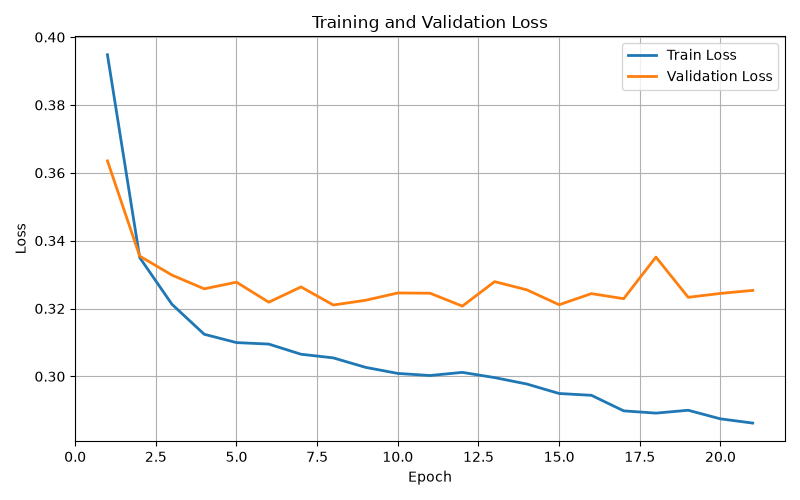
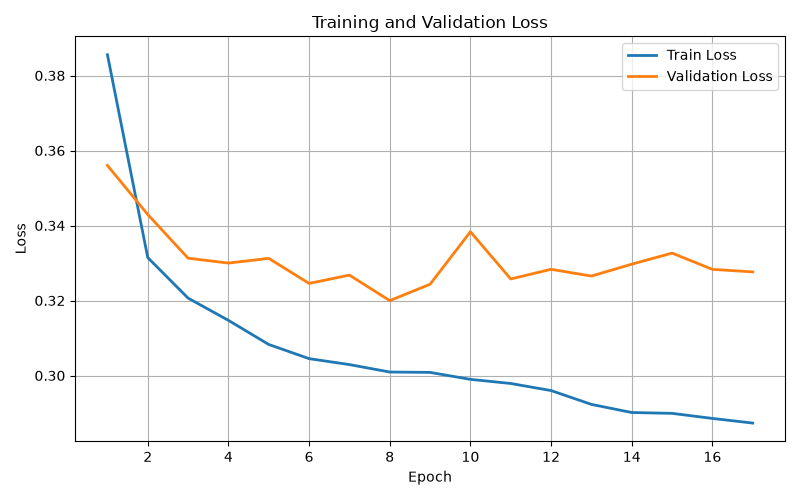
Complete My Project

diff --git a/models/feature_gating.py b/models/feature_gating.py
@@ -1,0 +1,45 @@
+"""
+feature_gating.py
+-----------------
+Adaptive Feature Gating Module.
+
+Author: Asal Javadpour
+Project: XTab_Project
+"""
+
+import torch
+import torch.nn as nn
+
+
+class FeatureGating(nn.Module):
+    """
+    Adaptive Feature Gating.
+
+    Learns an importance weight for every feature token.
+    """
+
+    def __init__(self, embedding_dim: int):
+
+        super().__init__()
+
+        self.gate = nn.Sequential(
+
+            nn.Linear(
+                embedding_dim,
+                embedding_dim,
+            ),
+
+            nn.Sigmoid(),
+
+        )
+
+    def forward(
+        self,
+        x: torch.Tensor,
+    ) -> torch.Tensor:
+
+        weights = self.gate(x)
+
+        x = x * weights
+
+        return x

diff --git a/models/transformer.py b/models/transformer.py
@@ -11,7 +11,7 @@ import torch
 import torch.nn as nn
 
 from configs.config import Config
-
+from models.feature_gating import FeatureGating
 from models.feature_tokenizer import FeatureTokenizer
 from models.cls_token import CLSToken
 from models.transformer_block import TransformerBlock
@@ -32,6 +32,12 @@ class FTTransformer(nn.Module):
             num_numeric_features=Config.NUM_NUMERIC_FEATURES,
             categorical_cardinalities=Config.CATEGORICAL_CARDINALITIES,
             embedding_dim=Config.EMBEDDING_DIM,
+        )
+        # ======================================
+        # Adaptive Feature Gating
+        # ======================================
+        self.feature_gating = FeatureGating(
+                embedding_dim=Config.EMBEDDING_DIM
         )
 
         # CLS Token
@@ -73,15 +79,37 @@ class FTTransformer(nn.Module):
         Forward pass of FT-Transformer.
         """
 
+        # ======================================
+        # Feature Tokenization
+        # ======================================
+
         x = self.feature_tokenizer(
             x_numeric=x_numeric,
             x_categorical=x_categorical,
         )
 
+        # ======================================
+        # Adaptive Feature Gating
+        # ======================================
+
+        x = self.feature_gating(x)
+
+        # ======================================
+        # CLS Token
+        # ======================================
+
         x = self.cls_token(x)
+
+        # ======================================
+        # Transformer Encoder
+        # ======================================
 
         for block in self.transformer_blocks:
             x = block(x)
+
+        # ======================================
+        # Final Layer Normalization
+        # ======================================
 
         x = self.final_norm(x)
 